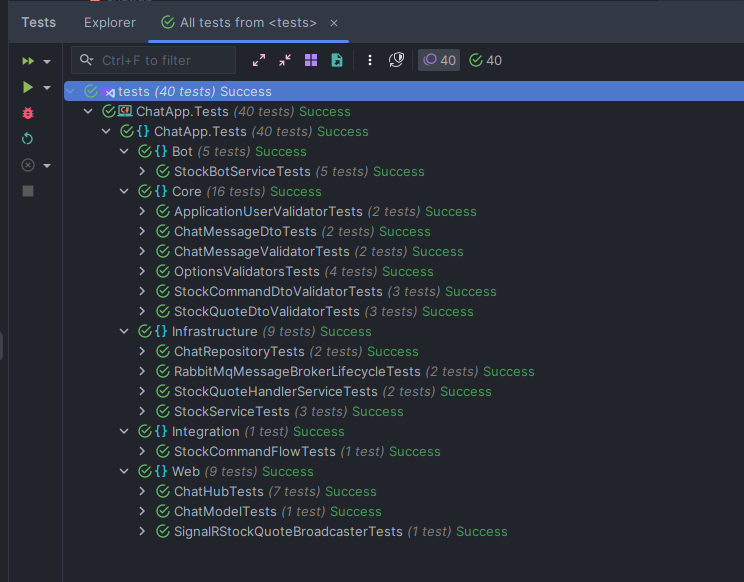
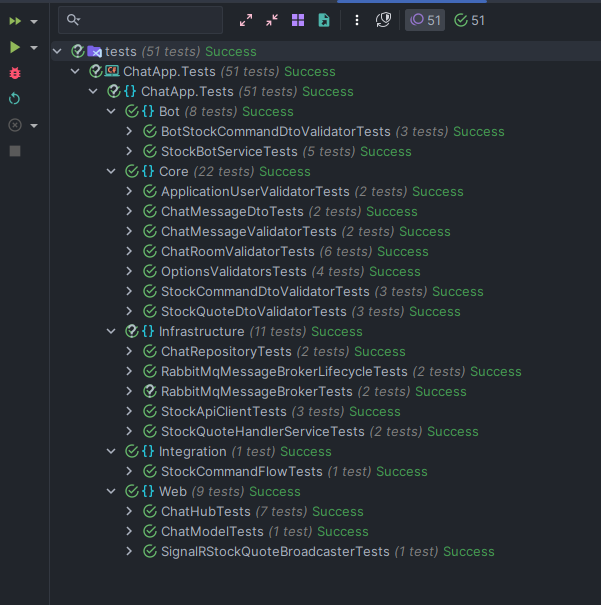
Feat: Moving StockService to BOT and renamed to StockApiClient

Changed region(s): [[0.0, 0.0, 1.0, 0.9278], [0.03, 0.2784, 0.0599, 0.3402], [0.0, 0.5876, 0.03, 0.6186]]

diff --git a/src/ChatApp.Bot/Services/StockBotService.cs b/src/ChatApp.Bot/Services/StockBotService.cs
@@ -1,4 +1,5 @@
 using ChatApp.Core.Dtos;
+using ChatApp.Bot.Interfaces;
 using ChatApp.Core.Interfaces;
 using Microsoft.Extensions.Hosting;
 using Microsoft.Extensions.Logging;
@@ -8,16 +9,16 @@ namespace ChatApp.Bot.Services;
 public class StockBotService : BackgroundService
 {
     private readonly IMessageBroker _messageBroker;
-    private readonly IStockService _stockService;
+    private readonly IStockApiClient _stockApiClient;
     private readonly ILogger<StockBotService> _logger;
 
     public StockBotService(
         IMessageBroker messageBroker,
-        IStockService stockService,
+        IStockApiClient stockApiClient,
         ILogger<StockBotService> logger)
     {
         _messageBroker = messageBroker;
-        _stockService = stockService;
+        _stockApiClient = stockApiClient;
         _logger = logger;
     }
 
@@ -59,7 +60,7 @@ public class StockBotService : BackgroundService
             _logger.LogInformation("Processing stock command: {StockCode} for user: {Username} in room: {RoomId}",
                 command.StockCode, command.Username, command.RoomId);
 
-            var quoteResult = await _stockService.GetStockQuoteAsync(command.StockCode);
+            var quoteResult = await _stockApiClient.GetStockQuoteAsync(command.StockCode);
 
             string quoteMessage;
             if (!string.IsNullOrEmpty(quoteResult))
@@ -76,7 +77,7 @@ public class StockBotService : BackgroundService
                 _logger.LogWarning("No quote found for stock code: {StockCode} in room {RoomId}", 
                     command.StockCode, command.RoomId);
 
-                await _messageBroker.PublishStockQuoteAsync(command.StockCode, quoteMessage, command.Username, command.RoomId);
+                await _messageBroker.PublishStockQuoteAsync(command.StockCode, quoteMessage, command.Username);
             }
 
             _logger.LogInformation("Published stock quote response for {StockCode} to room {RoomId}",

diff --git a/src/ChatApp.Bot/Dtos/Validators/BotStockCommandDtoValidator.cs b/src/ChatApp.Bot/Dtos/Validators/BotStockCommandDtoValidator.cs
@@ -1,0 +1,22 @@
+using FluentValidation;
+
+namespace ChatApp.Bot.Dtos.Validators;
+
+public class BotStockCommandDtoValidator : AbstractValidator<BotStockCommandDto>
+{
+    public BotStockCommandDtoValidator()
+    {
+        RuleFor(x => x.StockCode)
+            .NotEmpty().WithMessage("Stock code is required")
+            .MaximumLength(10)
+            .Matches("^[a-zA-Z.]+$").WithMessage("Stock code must contain letters and optional dot");
+
+        RuleFor(x => x.Username)
+            .NotEmpty().WithMessage("Username is required")
+            .MaximumLength(50);
+
+        RuleFor(x => x.RoomId)
+            .NotEmpty().WithMessage("RoomId is required")
+            .MaximumLength(50);
+    }
+}

diff --git a/src/ChatApp.Bot/Clients/StockApiClient.cs b/src/ChatApp.Bot/Clients/StockApiClient.cs
@@ -1,17 +1,17 @@
-using ChatApp.Core.Configuration;
-using ChatApp.Core.Interfaces;
+using System.Globalization;
+using ChatApp.Bot.Interfaces;
+using ChatApp.Core.Configuration;
 using Flurl;
 using Flurl.Http;
 using Microsoft.Extensions.Options;
-using System.Globalization;
 
-namespace ChatApp.Infrastructure.Services;
+namespace ChatApp.Bot.Clients;
 
-public class StockService : IStockService
+public class StockApiClient : IStockApiClient
 {
     private readonly StockApiOptions _options;
 
-    public StockService(IOptions<StockApiOptions> options)
+    public StockApiClient(IOptions<StockApiOptions> options)
     {
         _options = options.Value;
     }

diff --git a/src/ChatApp.Bot/Program.cs b/src/ChatApp.Bot/Program.cs
@@ -1,4 +1,6 @@
-using ChatApp.Bot.Services;
+using ChatApp.Bot.Clients;
+using ChatApp.Bot.Interfaces;
+using ChatApp.Bot.Services;
 using ChatApp.Core.Configuration;
 using ChatApp.Core.Interfaces;
 using ChatApp.Infrastructure.Services;
@@ -26,7 +28,7 @@ builder.Services.Configure<StockApiOptions>(
 
 // Register services
 builder.Services.AddSingleton<IMessageBroker, RabbitMqMessageBroker>();
-builder.Services.AddScoped<IStockService, StockService>();
+builder.Services.AddScoped<IStockApiClient, StockApiClient>();
 builder.Services.AddHostedService<StockBotService>();
 
 var host = builder.Build();

diff --git a/src/ChatApp.Web/Program.cs b/src/ChatApp.Web/Program.cs
@@ -78,7 +78,6 @@ builder.Services.Configure<RabbitMqOptions>(
 // Register services
 builder.Services.AddScoped<IChatRepository, ChatRepository>();
 builder.Services.AddSingleton<IMessageBroker, RabbitMqMessageBroker>();
-builder.Services.AddScoped<IStockService, StockService>();
 
 // Register broadcaster implementation (Web layer)
 builder.Services.AddScoped<IStockQuoteBroadcaster, SignalRStockQuoteBroadcaster>();

diff --git a/src/ChatApp.Bot/Dtos/BotStockCommandDto.cs b/src/ChatApp.Bot/Dtos/BotStockCommandDto.cs
@@ -1,0 +1,9 @@
+namespace ChatApp.Bot.Dtos;
+
+public record BotStockCommandDto
+{
+    public string StockCode { get; init; } = string.Empty;
+    public string Username { get; init; } = string.Empty;
+    public string RoomId { get; init; } = "lobby";
+    public DateTime Timestamp { get; init; }
+}

diff --git a/src/ChatApp.Bot/Interfaces/IStockApiClient.cs b/src/ChatApp.Bot/Interfaces/IStockApiClient.cs
@@ -1,0 +1,6 @@
+namespace ChatApp.Bot.Interfaces;
+
+public interface IStockApiClient
+{
+    Task<string?> GetStockQuoteAsync(string stockCode);
+}
